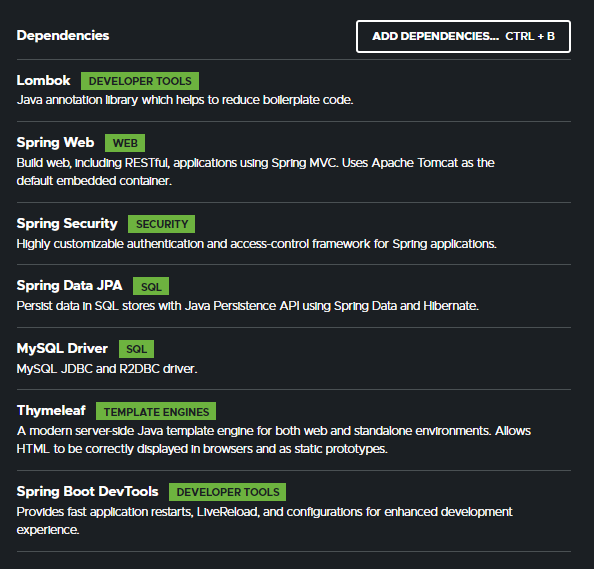
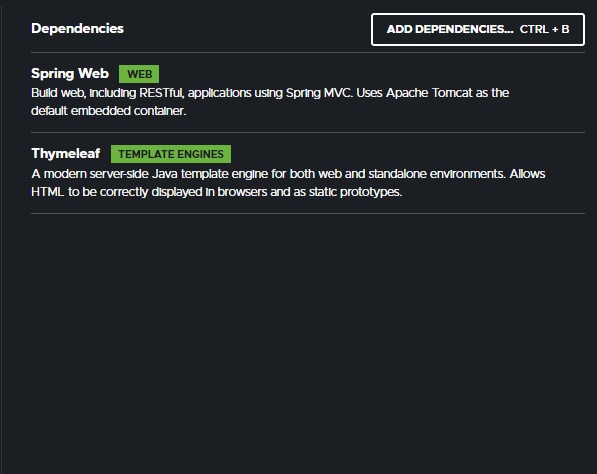
fix initializr

Changed region(s): [[0.0303, 0.0295, 1.0, 0.5612], [0.0303, 0.5907, 0.9091, 0.7975], [0.0303, 0.827, 0.8788, 0.9451]]

diff --git a/docs/1-Conhecendo-o-Spring/dependencias-do-projeto.md b/docs/1-Conhecendo-o-Spring/dependencias-do-projeto.md
@@ -1,34 +1,14 @@
 # Dependencias do Projeto
-As dependencias utilizadas no nosso projeto serão:
+No futuro iremos fazer uso de varias dependencias, mas inicialmente vamos fazer uso de duas, são elas:
 * Spring Web
-* Spring Security
-* Spring Data JPA
-* Spring Boot DevTools
-* MySQL Driver
 * Thymeleaf
-* Lombok
 ## Um pouco sobre as dependencias escolhidas
 
 ### Spring Web
 Esta dependencia nos proporciona tudo relacionado ao framework spring MVC e a arquitetura REST, além de um container do tomcat (_por padrão, nos dando ainda a escolha de troca_) todo configurado.
 
-### Spring security
-Nos proporciona um ambiente totalmente customizavel para segurança da nossa aplicação, gerenciador de acessos, autenticações por tokens e gerenciamento de autoridades.
-
-### Spring Data JPA
-Nos oferece um mapeamento de objeto -> dados e um ORM em tempo de compilação fantastico, facilitando absurdamente nossa vida quando se trata de persistencia de dados.
-
-### Spring boot DevTools
-O devtools a partir do momento em que rodamos nosso projeto, ele fica observando por alterações no codigo e assim que o alteramos reinicia automaticamente nossa aplicação.
-
-### MySQL driver
-O driver de conexão com nosso banco de dados, caso opte pelo PostgreSQL, apenas mude essa dependencia, demonstraremos a conexão com ambos.
-
 ### Thymeleaf
 Template engine para ssr, nos oferece uma vasta gama de tags para deixar nosso HTML top
-
-### Lombok
-Nos proporciona annotations para deixar nosso codigo muito mais enxuto e menos massante
 
 ### Dependencias no site
 <p align="center">

diff --git a/docs/1-Conhecendo-o-Spring/spring-initializr.md b/docs/1-Conhecendo-o-Spring/spring-initializr.md
@@ -1,6 +1,6 @@
 # Spring Initializr
 
-O [spring initializr](https://start.spring.io) é uma ferramenta muito poderosa, utilizada para gerar a estrutura inicial do nosso projeto, podemos fazer uso dessa inicialização pelo site ou pela IDE proposta. Darei agora uma explicação das configurações e ao final desse capitulo disponibilizo um print com a configuração feita.
+O spring initializr é uma ferramenta muito poderosa, utilizada para gerar a estrutura inicial do nosso projeto, podemos fazer uso dessa inicialização pelo [site](https://start.spring.io), ou pela IDE selecionando _file -> new -> Spring starter project_ . Darei agora uma explicação das configurações e ao final desse capitulo disponibilizo um print com a configuração feita.
 
  * Automatizador de Compilação
  * Linguagem
